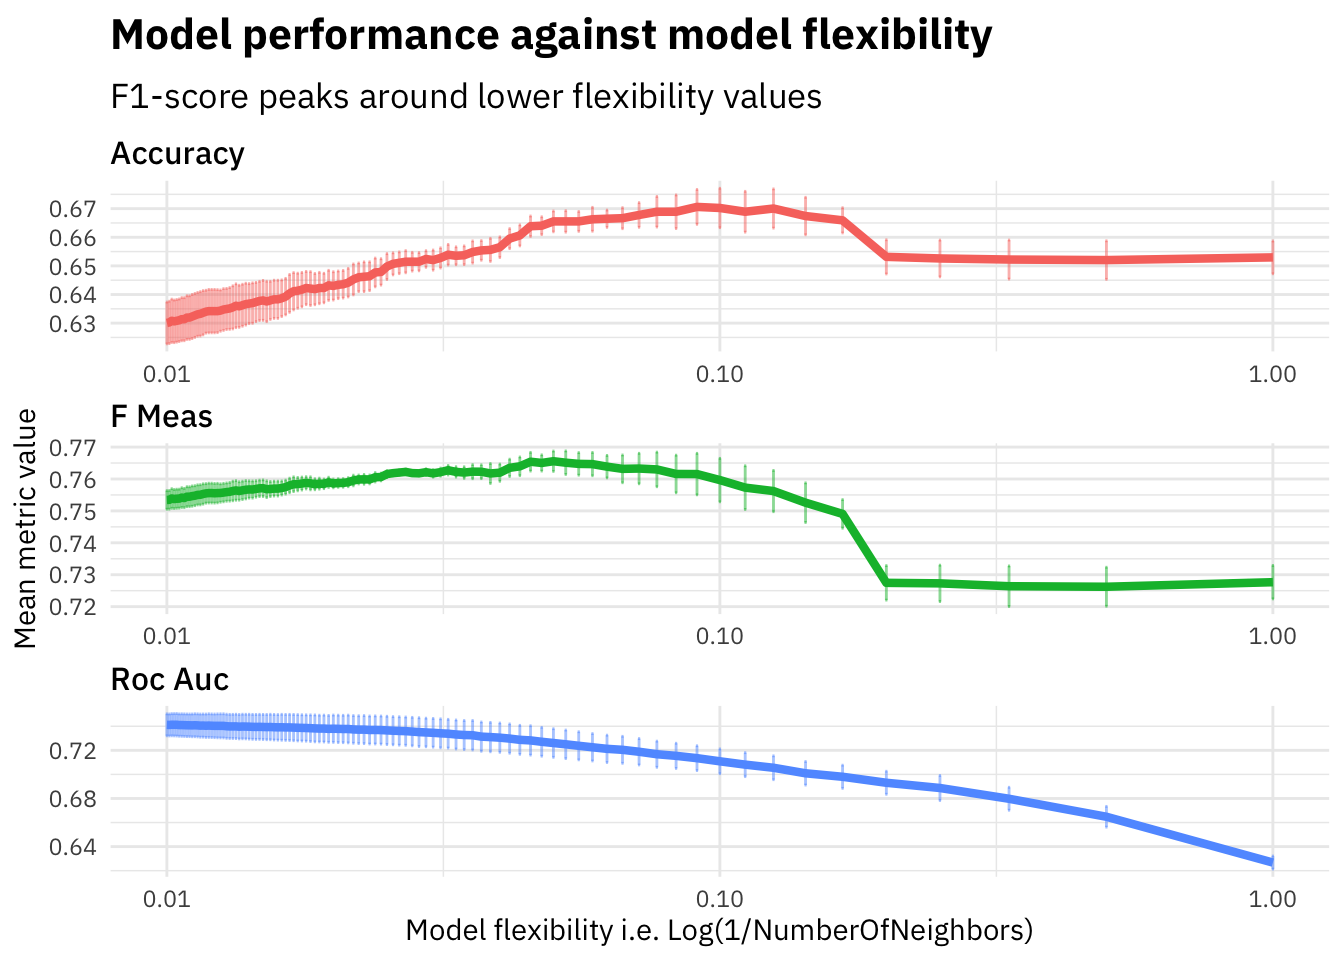
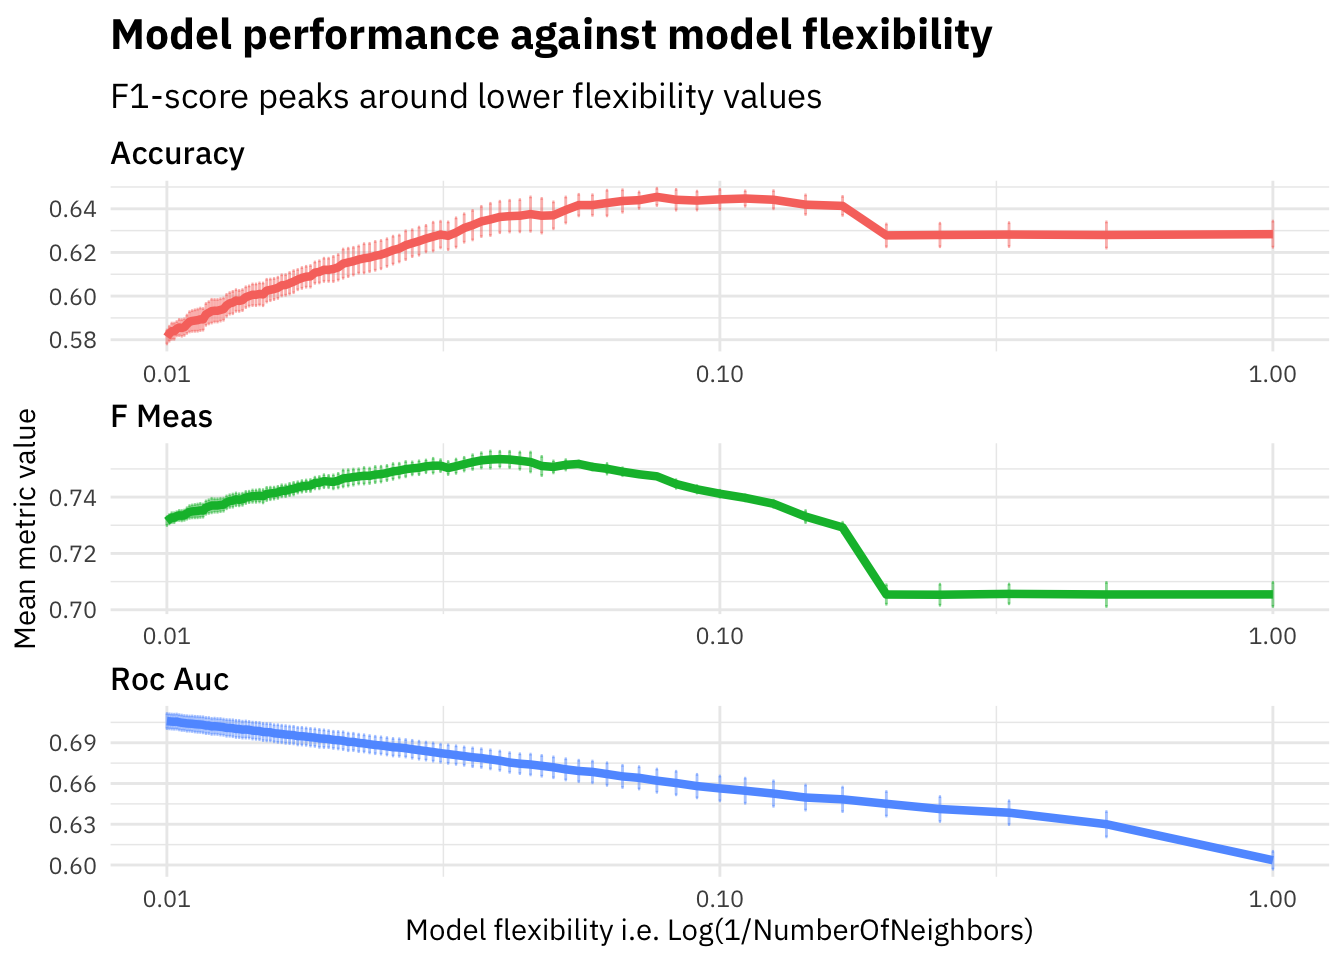
Updating data preparation params and adding PCA

Changed region(s): [[0.0312, 0.4688, 0.9688, 0.6562], [0.0312, 0.7188, 1.0, 0.9062], [0.0312, 0.1875, 0.9688, 0.375]]

diff --git a/content/post/2020-04-06-nlp-with-disaster-tweets-part-3-linear-models.html b/content/post/2020-04-06-nlp-with-disaster-tweets-part-3-linear-models.html
@@ -65,10 +65,10 @@ theme_set(theme_plex())</code></pre>
 tweets_final &lt;- readRDS(&quot;../data/nlp_with_disaster_tweets/tweets_test_proc.rds&quot;)</code></pre>
 <pre class="r"><code>tweets %&gt;% 
   dim</code></pre>
-<pre><code>## [1] 7613  505</code></pre>
+<pre><code>## [1] 7613  830</code></pre>
 <pre class="r"><code>tweets_final %&gt;% 
   dim</code></pre>
-<pre><code>## [1] 3263  504</code></pre>
+<pre><code>## [1] 3263  829</code></pre>
 </div>
 <div id="feature-preprocessing-and-engineering" class="section level2">
 <h2>Feature preprocessing and engineering</h2>
@@ -95,8 +95,8 @@ recipe(target ~ ., data = tweets_train) %&gt;%
               num_hashtags = str_count(text, &quot;#&quot;)) %&gt;% 
   step_rm(text) %&gt;% 
   step_zv(all_numeric(), -all_outcomes()) %&gt;% 
-  step_normalize(all_numeric(), -all_outcomes()) -&gt; tweets_recipe 
-  # step_pca(all_predictors(), num_comp = 2)-&gt; tweets_recipe
+  step_normalize(all_numeric(), -all_outcomes())  %&gt;% 
+  step_pca(all_predictors(), -len, -num_hashtags, threshold = 0.80)-&gt; tweets_recipe
 
 tweets_prep &lt;- tweets_recipe %&gt;% 
   prep(training = tweets_train, 
@@ -111,7 +111,7 @@ tweets_prep &lt;- tweets_recipe %&gt;%
 <h4>Basic</h4>
 <pre class="r"><code>lasso_spec &lt;- logistic_reg(penalty = 0.1, mixture = 1) %&gt;% 
   set_engine(&quot;glmnet&quot;) %&gt;% 
-  set_mode(&quot;classification&quot;)
+  set_mode(&quot;classification&quot;) 
 
 wf &lt;- workflow() %&gt;% 
   add_recipe(tweets_recipe)</code></pre>
@@ -125,20 +125,20 @@ saveRDS(lasso_fit, &quot;../data/nlp_with_disaster_tweets/glmnet/lasso_basic_fit
 lasso_fit %&gt;% 
   pull_workflow_fit() %&gt;% 
   tidy() </code></pre>
-<pre><code>## # A tibble: 22,952 x 5
+<pre><code>## # A tibble: 11,684 x 5
 ##    term         step estimate lambda dev.ratio
 ##    &lt;chr&gt;       &lt;dbl&gt;    &lt;dbl&gt;  &lt;dbl&gt;     &lt;dbl&gt;
-##  1 (Intercept)     1 -0.283    0.136  1.80e-14
-##  2 (Intercept)     2 -0.284    0.124  1.24e- 2
-##  3 v299            2 -0.0451   0.124  1.24e- 2
-##  4 v447            2 -0.0202   0.124  1.24e- 2
-##  5 (Intercept)     3 -0.284    0.113  2.80e- 2
-##  6 v299            3 -0.0785   0.113  2.80e- 2
-##  7 v314            3  0.0236   0.113  2.80e- 2
-##  8 v447            3 -0.0535   0.113  2.80e- 2
-##  9 (Intercept)     4 -0.285    0.103  4.77e- 2
-## 10 v164            4  0.00914  0.103  4.77e- 2
-## # … with 22,942 more rows</code></pre>
+##  1 (Intercept)     1  -0.283  0.151   1.80e-14
+##  2 (Intercept)     2  -0.284  0.138   1.17e- 2
+##  3 PC001           2  -0.0101 0.138   1.17e- 2
+##  4 (Intercept)     3  -0.284  0.126   2.14e- 2
+##  5 PC001           3  -0.0194 0.126   2.14e- 2
+##  6 (Intercept)     4  -0.285  0.114   2.97e- 2
+##  7 PC001           4  -0.0280 0.114   2.97e- 2
+##  8 (Intercept)     5  -0.286  0.104   3.66e- 2
+##  9 PC001           5  -0.0360 0.104   3.66e- 2
+## 10 (Intercept)     6  -0.288  0.0951  5.21e- 2
+## # … with 11,674 more rows</code></pre>
 <p>Above we see the familiar output of glmnet. Now, Let’s try and tune the regularization penalty and visualize the results.</p>
 </div>
 <div id="tuning-lasso-penalty" class="section level4">
@@ -172,16 +172,16 @@ lasso_grid %&gt;%
 <pre><code>## # A tibble: 225 x 6
 ##     penalty .metric  .estimator  mean     n std_err
 ##       &lt;dbl&gt; &lt;chr&gt;    &lt;chr&gt;      &lt;dbl&gt; &lt;int&gt;   &lt;dbl&gt;
-##  1 1.00e-10 accuracy binary     0.760    30 0.00438
-##  2 1.00e-10 f_meas   binary     0.797    30 0.00363
-##  3 1.00e-10 roc_auc  binary     0.822    30 0.00399
-##  4 1.37e-10 accuracy binary     0.760    30 0.00438
-##  5 1.37e-10 f_meas   binary     0.797    30 0.00363
-##  6 1.37e-10 roc_auc  binary     0.822    30 0.00399
-##  7 1.86e-10 accuracy binary     0.760    30 0.00438
-##  8 1.86e-10 f_meas   binary     0.797    30 0.00363
-##  9 1.86e-10 roc_auc  binary     0.822    30 0.00399
-## 10 2.54e-10 accuracy binary     0.760    30 0.00438
+##  1 1.00e-10 accuracy binary     0.772    30 0.00343
+##  2 1.00e-10 f_meas   binary     0.807    30 0.00277
+##  3 1.00e-10 roc_auc  binary     0.836    30 0.00370
+##  4 1.37e-10 accuracy binary     0.772    30 0.00343
+##  5 1.37e-10 f_meas   binary     0.807    30 0.00277
+##  6 1.37e-10 roc_auc  binary     0.836    30 0.00370
+##  7 1.86e-10 accuracy binary     0.772    30 0.00343
+##  8 1.86e-10 f_meas   binary     0.807    30 0.00277
+##  9 1.86e-10 roc_auc  binary     0.836    30 0.00370
+## 10 2.54e-10 accuracy binary     0.772    30 0.00343
 ## # … with 215 more rows</code></pre>
 <pre class="r"><code>lasso_grid %&gt;% 
   collect_metrics() %&gt;% 
@@ -219,10 +219,10 @@ lasso_last_fit %&gt;%
 <pre><code>## # A tibble: 3 x 3
 ##   .metric  .estimator .estimate
 ##   &lt;chr&gt;    &lt;chr&gt;          &lt;dbl&gt;
-## 1 accuracy binary         0.777
-## 2 f_meas   binary         0.817
-## 3 roc_auc  binary         0.833</code></pre>
-<p>The f1-score metric on the validation set comes out to be 0.81 which is much higher compared to the baseline and also the K-Nearest Neighbor model that we built in <a href="/2020/02/nlp-with-disaster-tweets-part-2-nearest-neighbor-models/" target="_blank">Part 2</a>. Lets try and visualize the variable importance for different features that we used to train our model.</p>
+## 1 accuracy binary         0.763
+## 2 f_meas   binary         0.806
+## 3 roc_auc  binary         0.826</code></pre>
+<p>The f1-score metric on the validation set comes out to be 0.8058252 which is much higher compared to the baseline and also the K-Nearest Neighbor model that we built in <a href="/2020/02/nlp-with-disaster-tweets-part-2-nearest-neighbor-models/" target="_blank">Part 2</a>. Lets try and visualize the variable importance for different features that we used to train our model.</p>
 <pre class="r"><code>lasso_last_fit$.workflow[[1]] %&gt;% 
   pull_workflow_fit() %&gt;% 
   vi(lambda = highest_f_meas$penalty) %&gt;% 
@@ -237,15 +237,15 @@ lasso_last_fit %&gt;%
        title = &quot;Variable Importance plot&quot;,
        subtitle = &quot;&#39;len&#39; feature has high positive impact on disaster probability&quot;)</code></pre>
 <p><img src="/post/2020-04-06-nlp-with-disaster-tweets-part-3-linear-models_files/figure-html/unnamed-chunk-15-1.png" width="672" /></p>
-<p>Since most of our features are the different dimensions coming out of the glove embeddings, we can not interpret them. However, as in the plot above, our custom feature “len” i.e. length of the tweets comes out as one of the most important features. The model gives a higher probability of a tweet being about a disaster if its longer in length, signifying that people tweeting about real disasters usually use a lot more words as compared to others.</p>
+<p>Since most of our features are the dimensionally reduced different dimensions coming out of the glove embeddings, we can not interpret them. However, as in the plot above, our custom feature “len” i.e. length of the tweets comes out as one of the most important features. The model gives a higher probability of a tweet being about a disaster if its longer in length, signifying that people tweeting about real disasters usually use a lot more words as compared to others.</p>
 <p>Let’s visualize how the coefficient estimates vary based on lambda for our 2 custom features, length of tweets and number of hashtags, and also for 1 other high coefficient feature in both positive and negative directions each.</p>
 <pre class="r"><code>lasso_last_fit$.workflow[[1]] %&gt;% 
   pull_workflow_fit() %&gt;% 
   tidy() %&gt;% 
-  filter(term %in% c(&quot;len&quot;, &quot;num_hashtags&quot;, &quot;v288&quot;, &quot;v472&quot;)) %&gt;% 
+  filter(term %in% c(&quot;len&quot;, &quot;num_hashtags&quot;, &quot;PC009&quot;, &quot;PC026&quot;)) %&gt;% 
   select(term, estimate, lambda) %&gt;% 
   pivot_wider(names_from = term, values_from = estimate) %&gt;% 
-  replace_na(list(num_hashtags = 0, v472 = 0, len = 0, v288 = 0)) %&gt;% 
+  replace_na(list(num_hashtags = 0, PC009 = 0, len = 0, PC026 = 0)) %&gt;% 
   pivot_longer(names_to = &quot;term&quot;, values_to = &quot;estimate&quot;, cols = -lambda) %&gt;% 
   ggplot(aes(x = lambda, y = estimate, color = term)) + 
   geom_point() + 

diff --git a/content/post/2020-02-19-nlp-with-disaster-tweets-part-1.html b/content/post/2020-02-19-nlp-with-disaster-tweets-part-1.html
@@ -218,27 +218,28 @@ skim(tweets)</code></pre>
 <div id="tokenize-incoming-tweet-texts-in-the-training-data" class="section level3">
 <h3>Tokenize incoming tweet texts in the training data</h3>
 <p>Using keras’ text_tokenizer to tokenize the text in tweets dataset.</p>
-<pre class="r"><code>num_words &lt;- 10000
-
-text_tokenizer(num_words = num_words) %&gt;% 
+<pre class="r"><code>text_tokenizer() %&gt;% 
   fit_text_tokenizer(tweets$text) -&gt; tokenizer
 
-length(tokenizer$word_index)</code></pre>
+num_words &lt;- length(tokenizer$word_index) + 1
+print(length(tokenizer$word_index))</code></pre>
 <pre><code>## [1] 22700</code></pre>
-<p>A total of 22,700 unique words were assigned an index in the tokenization.<br />
+<p>A total of 22700 unique words were assigned an index in the tokenization.<br />
 Using the above fit tokenizer, converting the text to actual sequences of indices.</p>
 <pre class="r"><code>sequences &lt;- texts_to_sequences(tokenizer, tweets$text)
 
 summary(map_int(sequences, length))</code></pre>
 <pre><code>##    Min. 1st Qu.  Median    Mean 3rd Qu.    Max. 
-##    0.00   11.00   15.00   15.17   19.00   32.00</code></pre>
-<pre class="r"><code>maxlen &lt;- 20</code></pre>
-<p>Capping the maximum length of a tweets sequence to 20. This will translate all the tweets text sequences into a sequence of length 20. If the original sequence was longer, it will truncate from the beginning and if the original sequence is smaller, it will pad the sequence in the beginning to bring the final length to 20.</p>
+##    1.00   13.00   17.00   16.84   21.00   33.00</code></pre>
+<pre class="r"><code>maxlen &lt;- max(map_int(sequences, length))
+print(maxlen)</code></pre>
+<pre><code>## [1] 33</code></pre>
+<p>Capping the maximum length of a tweets sequence to 33. This will translate all the tweets text sequences into a sequence of length 33. If the original sequence was longer, it will truncate from the beginning and if the original sequence is smaller, it will pad the sequence in the beginning to bring the final length to 33.</p>
 <pre class="r"><code>pad_sequences(sequences, maxlen = maxlen) -&gt; padded_sequences
 
 str(padded_sequences)</code></pre>
-<pre><code>##  int [1:7613, 1:20] 0 0 1620 0 0 0 0 0 0 0 ...</code></pre>
-<p>Like we see above, for all the 7,613 tweets in the training data we have created a tokenized sequence of 20 elements each.</p>
+<pre><code>##  int [1:7613, 1:33] 0 0 0 0 0 0 0 0 0 0 ...</code></pre>
+<p>Like we see above, for all the 7,613 tweets in the training data we have created a tokenized sequence of 33 elements each.</p>
 </div>
 <div id="download-and-parse-glove-embeddings-into-an-embedding-matrix-for-the-tokenized-words" class="section level3">
 <h3>Download and parse glove embeddings into an embedding matrix for the tokenized words</h3>
@@ -281,12 +282,12 @@ generate_embedding_matrix &lt;- function(word_index, embedding_dim, max_words, g
 saveRDS(embedding_matrix, &quot;../data/nlp_with_disaster_tweets/embedding_matrix_25d.rds&quot;)</code></pre>
 <pre class="r"><code>embedding_matrix &lt;- readRDS(&quot;../data/nlp_with_disaster_tweets/embedding_matrix_25d.rds&quot;)
 str(embedding_matrix)</code></pre>
-<pre><code>##  num [1:10000, 1:25] 0 0.7864 0.4186 0.7086 -0.0102 ...</code></pre>
-<p>Using only 25 dimensional embedding in order to keep the computations fast, we have created an embedding matrix which holds the 25 dimension values for the most popular 10,000 words in our tweets text data.</p>
+<pre><code>##  num [1:22701, 1:25] 0 0.7864 0.4186 0.7086 -0.0102 ...</code></pre>
+<p>Using only 25 dimensional embedding in order to keep the computations fast, we have created an embedding matrix which holds the 25 dimension values for the most popular 22700 words in our tweets text data.</p>
 </div>
 <div id="generate-embeddings-vector-for-tweets-text-in-training-data" class="section level3">
 <h3>Generate embeddings vector for tweets text in training data</h3>
-<p>Using the keras modelling framework to generate embeddings for the given training data. We basically create a simple sequential model with one embedding layer whose weights we will freeze based on our embedding matrix created above, and a flattening layer that will flatten the output into a 2D matrix of dimensions (7613, 20x25).</p>
+<p>Using the keras modelling framework to generate embeddings for the given training data. We basically create a simple sequential model with one embedding layer whose weights we will freeze based on our embedding matrix created above, and a flattening layer that will flatten the output into a 2D matrix of dimensions (7613, 33x25).</p>
 <pre class="r"><code>keras_model_sequential() %&gt;% 
   layer_embedding(input_dim = num_words, output_dim = embedding_dim, 
                   input_length = maxlen, name = &quot;embedding&quot;) %&gt;% 
@@ -301,8 +302,8 @@ model_embedding %&gt;%
   predict(padded_sequences) -&gt; tweets_embeddings
 
 str(tweets_embeddings)</code></pre>
-<pre><code>##  num [1:7613, 1:500] 0 0 -0.524 0 0 ...</code></pre>
-<p>For each of the 7,613 padded tweet sequences of upto max length 20, we use the keras model to “predict” and populate the embedding for each of those 20 words in the sequence and susequently flatten those to create a single feature vector of 20x25=500 dimensions.</p>
+<pre><code>##  num [1:7613, 1:825] 0 0 0 0 0 0 0 0 0 0 ...</code></pre>
+<p>For each of the 7,613 padded tweet sequences of upto max length 33, we use the keras model to “predict” and populate the embedding for each of those 33 words in the sequence and susequently flatten those to create a single feature vector of 33x25=825 dimensions.</p>
 </div>
 <div id="generate-embeddings-vector-for-tweets-text-in-test-data" class="section level3">
 <h3>Generate embeddings vector for tweets text in test data</h3>
@@ -314,8 +315,8 @@ model_embedding %&gt;%
   predict(padded_sequences_test) -&gt; tweets_embeddings_test
 
 str(tweets_embeddings_test)</code></pre>
-<pre><code>##  num [1:3263, 1:500] 0 0 0 0 0 0 0 0 0 0 ...</code></pre>
-<p>We similarly get 500 embedding dimensions for 3,263 tweets in the test data.</p>
+<pre><code>##  num [1:3263, 1:825] 0 0 0 0 0 0 0 0 0 0 ...</code></pre>
+<p>We similarly get 825 embedding dimensions for 3,263 tweets in the test data.</p>
 </div>
 <div id="append-to-given-tweets-features-and-export" class="section level3">
 <h3>Append to given tweets features and export</h3>

diff --git a/content/post/2020-02-20-nlp-with-disaster-tweets-part-2-nearest-neighbor-models.html b/content/post/2020-02-20-nlp-with-disaster-tweets-part-2-nearest-neighbor-models.html
@@ -66,10 +66,10 @@ theme_set(theme_plex())</code></pre>
 tweets_final &lt;- readRDS(&quot;../data/nlp_with_disaster_tweets/tweets_test_proc.rds&quot;)</code></pre>
 <pre class="r"><code>tweets %&gt;% 
   dim</code></pre>
-<pre><code>## [1] 7613  505</code></pre>
+<pre><code>## [1] 7613  830</code></pre>
 <pre class="r"><code>tweets_final %&gt;% 
   dim</code></pre>
-<pre><code>## [1] 3263  504</code></pre>
+<pre><code>## [1] 3263  829</code></pre>
 </div>
 <div id="feature-preprocessing-and-engineering" class="section level2">
 <h2>Feature preprocessing and engineering</h2>
@@ -97,11 +97,11 @@ tweets_split &lt;- initial_split(tweets_train_cv, prop = 7/9, strata = target)
 tweets_train &lt;- training(tweets_split)
 tweets_cv &lt;- testing(tweets_split)</code></pre>
 <pre class="r"><code>dim(tweets_train)</code></pre>
-<pre><code>## [1] 5328  505</code></pre>
+<pre><code>## [1] 5328  830</code></pre>
 <pre class="r"><code>dim(tweets_cv)</code></pre>
-<pre><code>## [1] 1522  505</code></pre>
+<pre><code>## [1] 1522  830</code></pre>
 <pre class="r"><code>dim(tweets_test)</code></pre>
-<pre><code>## [1] 763 505</code></pre>
+<pre><code>## [1] 763 830</code></pre>
 </div>
 <div id="preparation-recipe" class="section level3">
 <h3>Preparation Recipe</h3>
@@ -113,8 +113,8 @@ tweets_cv &lt;- testing(tweets_split)</code></pre>
               num_hashtags = str_count(text, &quot;#&quot;)) %&gt;% 
   step_rm(text) %&gt;% 
   step_zv(all_numeric(), -all_outcomes()) %&gt;% 
-  step_normalize(all_numeric(), -all_outcomes()) -&gt; tweets_recipe 
-  # step_pca(all_predictors(), num_comp = 2)-&gt; tweets_recipe</code></pre>
+  step_normalize(all_numeric(), -all_outcomes())  %&gt;% 
+  step_pca(all_predictors(), -len, -num_hashtags, threshold = 0.80)-&gt; tweets_recipe</code></pre>
 <p>Note above</p>
 <ul>
 <li>We use the training dataset to create the recipe<br />
@@ -129,7 +129,9 @@ tweets_cv &lt;- testing(tweets_split)</code></pre>
 </li>
 <li>Removing all predictors with zero variance.<br />
 </li>
-<li>Normalizing all features i.e. centering and scaling.</li>
+<li>Normalizing all features i.e. centering and scaling.<br />
+</li>
+<li>Adding dimensionality reduction using PCA to keep 80% variance and reduce the number of features while still keeping our custom features.</li>
 </ul>
 <pre class="r"><code>tweets_prep &lt;- tweets_recipe %&gt;% 
   prep(training = tweets_train, 
@@ -223,8 +225,8 @@ knn_fit %&gt;%
 
 wf_fit$fit$MISCLASS</code></pre>
 <pre><code>##     optimal
-## 3 0.3421547</code></pre>
-<p>The above shows a simple K-nearest neighbors model using the “kknn” engine. Gives about 0.34 of minimal misclassification.
+## 3 0.3521021</code></pre>
+<p>The above shows a simple K-nearest neighbors model using the “kknn” engine. Gives about 0.3521021 of minimal misclassification.
 Let’s try and tune the number of neighbors (k) and see if we can interpret the underlying problem space.</p>
 </div>
 <div id="tuning-number-of-neighbors" class="section level4">
@@ -259,16 +261,16 @@ knn_grid %&gt;%
 <pre><code>## # A tibble: 300 x 6
 ##    neighbors .metric  .estimator  mean     n std_err
 ##        &lt;dbl&gt; &lt;chr&gt;    &lt;chr&gt;      &lt;dbl&gt; &lt;int&gt;   &lt;dbl&gt;
-##  1         1 accuracy binary     0.653     5 0.00572
-##  2         1 f_meas   binary     0.728     5 0.00523
-##  3         1 roc_auc  binary     0.627     5 0.00543
-##  4         2 accuracy binary     0.652     5 0.00673
-##  5         2 f_meas   binary     0.726     5 0.00610
-##  6         2 roc_auc  binary     0.665     5 0.00861
-##  7         3 accuracy binary     0.652     5 0.00681
-##  8         3 f_meas   binary     0.726     5 0.00635
-##  9         3 roc_auc  binary     0.680     5 0.00953
-## 10         4 accuracy binary     0.653     5 0.00642
+##  1         1 accuracy binary     0.628     5 0.00597
+##  2         1 f_meas   binary     0.705     5 0.00426
+##  3         1 roc_auc  binary     0.604     5 0.00653
+##  4         2 accuracy binary     0.628     5 0.00598
+##  5         2 f_meas   binary     0.705     5 0.00426
+##  6         2 roc_auc  binary     0.630     5 0.00928
+##  7         3 accuracy binary     0.628     5 0.00544
+##  8         3 f_meas   binary     0.706     5 0.00349
+##  9         3 roc_auc  binary     0.639     5 0.00873
+## 10         4 accuracy binary     0.628     5 0.00537
 ## # … with 290 more rows</code></pre>
 <pre class="r"><code>knn_grid %&gt;% 
   collect_metrics() %&gt;% 
@@ -307,10 +309,10 @@ knn_last_fit %&gt;%
 <pre><code>## # A tibble: 3 x 3
 ##   .metric  .estimator .estimate
 ##   &lt;chr&gt;    &lt;chr&gt;          &lt;dbl&gt;
-## 1 accuracy binary         0.655
-## 2 f_meas   binary         0.761
-## 3 roc_auc  binary         0.701</code></pre>
-<p>Our final fit knn model with K=20 gives an f1-score of 0.7610, which is much higher than our baseline model on the same CV dataset.</p>
+## 1 accuracy binary         0.643
+## 2 f_meas   binary         0.756
+## 3 roc_auc  binary         0.687</code></pre>
+<p>Our final fit knn model with K=25 gives an f1-score of 0.7560538, which is much higher than our baseline model on the same CV dataset.</p>
 </div>
 </div>
 </div>
